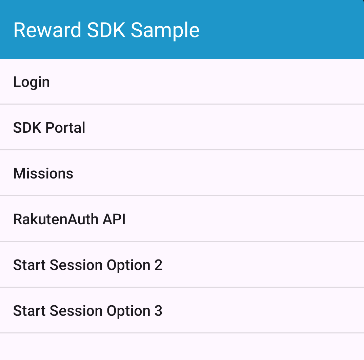
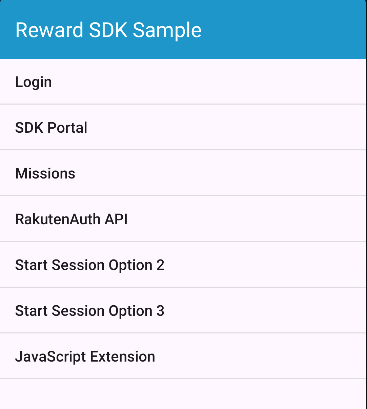
add js extension guide

diff --git a/README.md b/README.md
@@ -15,11 +15,11 @@ We provide several SDKs for different use cases as well as different login optio
 
 | Branch | Description | Current Branch |
 | --- | --- | ---- |
-| **main** | This is the default branch to demo the basic API usage and <code>RakuteAuth</code> login options | ✅ |  
+| main | This is the default branch to demo the basic API usage and <code>RakuteAuth</code> login options |  |  
 | login/rae | This branch is for application which uses RAE token |  |  
 | login/rid | This branch is for application which uses RID token |  |  
 | feature/saas-sdk | This branch demonstrates the usage of Saas SDK |  |  
-| feature/js-ext | This branch demonstrates the usage of JavaScript Extension SDK |  |  
+| **feature/js-ext** | This branch demonstrates the usage of JavaScript Extension SDK | ✅ |  
 
 ## Secrets Gradle Plugin  
 This sample app project uses Google's [Secrets Gradle Plugin](https://github.com/google/secrets-gradle-plugin).  
@@ -29,8 +29,11 @@ To build the sample app, please fill in the following key-value pairs in the `lo
 appKey=xxx
 dailyMissionCode=xxx
 customMissionCode=xxx
+jsExtSampleUrl=xxx
+jsExtSampleDomain=xxx
 ```  
 If you already have the App Key and Mission Code, please input the values.  
+If you already have the sample webpage which integrate JS SDK, please input the URL and domain.  
 If you still don't have these values, please send a request to Reward SDK team.  
 
 # Sample App  
@@ -47,3 +50,19 @@ If you have logged in, there will be a toast message saying `Reward SDK in ONLIN
 | RakutenAuth API | Demo other available `RakutenAuth` APIs |  
 | Start Session Option 2 | Demo Option 2 of Start SDK session [guide](https://github.com/rakuten-ads/Rakuten-Reward-Native-Android/blob/master/doc/basic/README.md#option-2-call-lifecycle-method-in-each-android-lifecycle) |  
 | Start Session Option 3 | Demo Option 3 of Start SDK Session [guide](https://github.com/rakuten-ads/Rakuten-Reward-Native-Android/blob/master/doc/basic/README.md#option-3-call-androidx-base-lifecycle-method) |  
+| JavaScript Extension | Demo JavaScript Extension SDK [guide](https://github.com/rakuten-ads/Rakuten-Reward-Native-Android/blob/master/doc/extension/README.md) |  
+
+## JavaScript Extension  
+<img src="pic/js-ext-1.png" alt="JS EXT Screen" width="250">    
+
+The top half of the page load a testing webpage to demonstrate the API.  
+The bottom half of the page shows the mission list.  
+
+After the page is loaded, click on the Android icon and scroll the page to the bottom.  
+
+To test the Log Action button, please follow these steps:  
+1. Select a mission at the bottom by tapping the mission name. - A toast message saying `Action Code copied` will be shown   
+2. Click on `Paste Code to WebView` button - the action code will be paste to the textbox in the webpage.    
+3. Click on `Log Action` button in the webpage. 
+
+<img src="pic/js-ext-2.png" alt="Test log action" width="250">  
